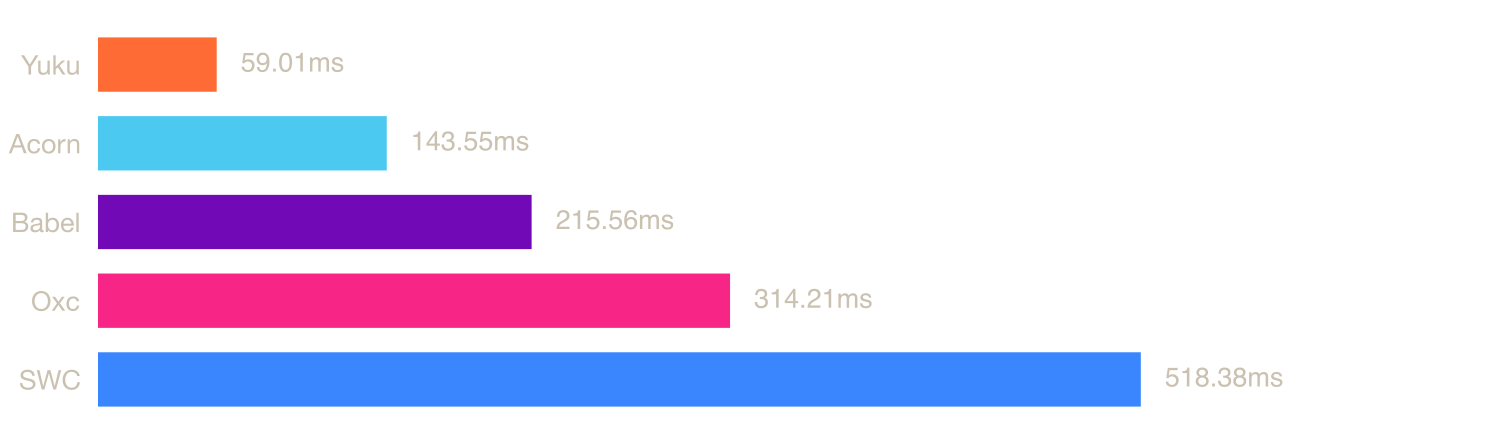
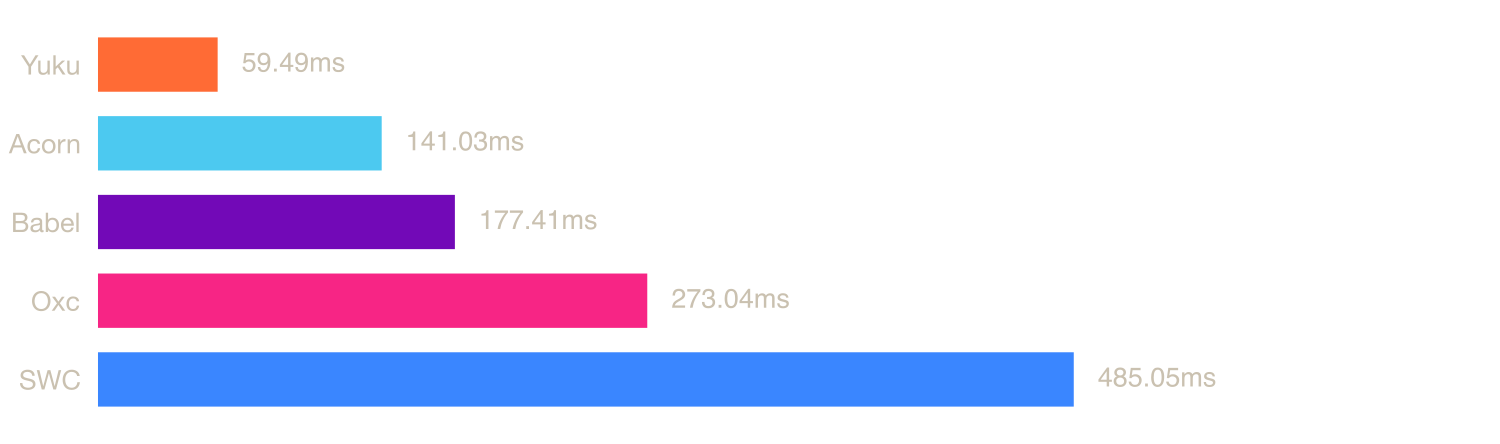
update parsers

diff --git a/scripts/bench.ts b/scripts/bench.ts
@@ -37,13 +37,19 @@ async function benchFile(fileKey: string, file: { path: string; lang: Lang }): P
 
   const bench = new Bench({ time: 5000, warmupTime: 1000 });
 
-  bench.add("Acorn", () => {
-    const { body: _ } = acorn.parse(source, { ecmaVersion: "latest", sourceType: "module" });
-  });
+  if (!isTsx) {
+    bench.add("Acorn", () => {
+      const { body: _ } = acorn.parse(source, { ecmaVersion: "latest", sourceType: "module" });
+    });
+  }
 
   const babelPlugins: babel.ParserPlugin[] = isTsx ? ["typescript", "jsx"] : [];
   bench.add("Babel", () => {
-    const { program: _ } = babel.parse(source, { sourceType: "module", plugins: babelPlugins });
+    const { program: _ } = babel.parse(source, {
+      sourceType: "module",
+      plugins: babelPlugins,
+      errorRecovery: isTsx,
+    });
   });
 
   const oxcFilename = isTsx ? "bench.tsx" : "bench.js";

diff --git a/README.md b/README.md
@@ -43,11 +43,11 @@ A high-performance & spec-compliant JavaScript/TypeScript compiler written in Zi
 
 | Parser | Mean | Min | Max |
 |--------|------|-----|-----|
-| Yuku | 59.01 ms | 54.54 ms | 91.61 ms |
-| Acorn | 143.55 ms | 125.15 ms | 213.91 ms |
-| Babel | 215.56 ms | 169.71 ms | 261.55 ms |
-| Oxc | 314.21 ms | 275.49 ms | 492.99 ms |
-| SWC | 518.38 ms | 465.16 ms | 751.81 ms |
+| Yuku | 59.49 ms | 53.60 ms | 81.17 ms |
+| Acorn | 141.03 ms | 127.12 ms | 157.17 ms |
+| Babel | 177.41 ms | 144.61 ms | 208.80 ms |
+| Oxc | 273.04 ms | 264.36 ms | 319.18 ms |
+| SWC | 485.05 ms | 457.32 ms | 552.95 ms |
 
 ### [calcom.tsx](https://raw.githubusercontent.com/yuku-toolchain/parser-benchmark-files/refs/heads/main/calcom.tsx)
 
@@ -57,9 +57,9 @@ A high-performance & spec-compliant JavaScript/TypeScript compiler written in Zi
 
 | Parser | Mean | Min | Max |
 |--------|------|-----|-----|
-| Yuku | 11.87 ms | 10.55 ms | 29.94 ms |
-| Oxc | 60.22 ms | 54.83 ms | 103.79 ms |
-| SWC | 76.15 ms | 68.43 ms | 125.85 ms |
+| Yuku | 12.22 ms | 10.65 ms | 19.91 ms |
+| Oxc | 57.31 ms | 54.46 ms | 68.21 ms |
+| SWC | 72.58 ms | 68.03 ms | 115.32 ms |
 | Acorn | Failed to parse | - | - |
 | Babel | Failed to parse | - | - |
 
@@ -71,11 +71,11 @@ A high-performance & spec-compliant JavaScript/TypeScript compiler written in Zi
 
 | Parser | Mean | Min | Max |
 |--------|------|-----|-----|
-| Yuku | 0.45 ms | 0.38 ms | 4.66 ms |
-| Acorn | 1.02 ms | 0.93 ms | 15.39 ms |
-| Babel | 1.46 ms | 0.99 ms | 5.34 ms |
-| Oxc | 1.56 ms | 1.49 ms | 5.32 ms |
-| SWC | 2.89 ms | 2.75 ms | 6.09 ms |
+| Yuku | 0.50 ms | 0.38 ms | 40.03 ms |
+| Acorn | 1.06 ms | 0.96 ms | 5.18 ms |
+| Babel | 1.47 ms | 0.96 ms | 16.21 ms |
+| Oxc | 1.59 ms | 1.48 ms | 26.46 ms |
+| SWC | 2.99 ms | 2.78 ms | 29.93 ms |
 
 ## Run Benchmarks
 